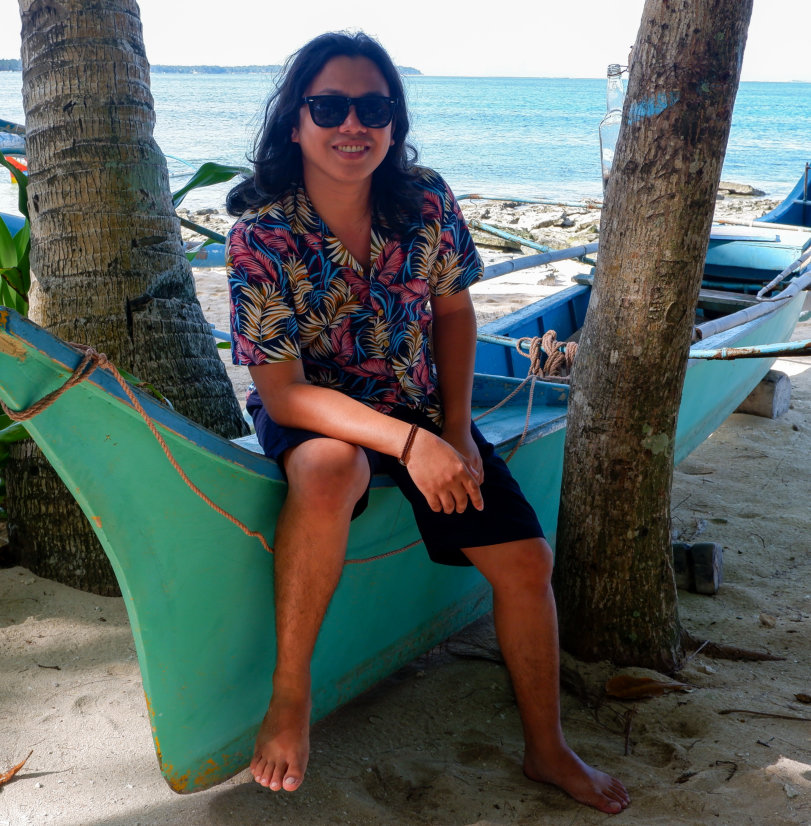
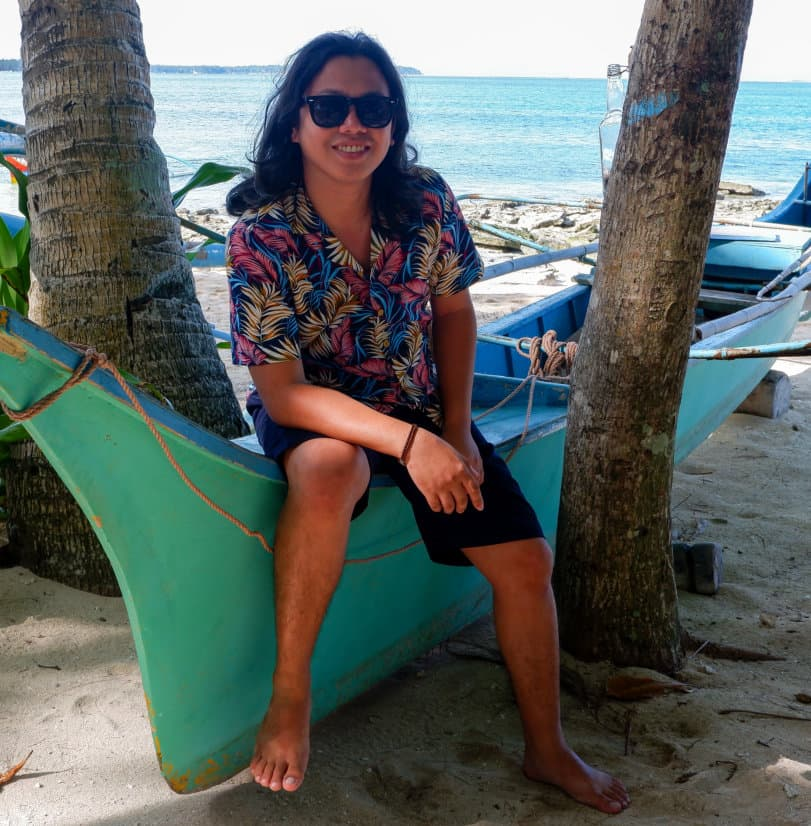
Optimized images

diff --git a/index.html b/index.html
@@ -15,9 +15,9 @@
 	<link rel="stylesheet" href="css/owl.theme.default.min.css">
 	<link rel="stylesheet" href="css/slick.css">
 	<link rel="stylesheet" href="css/slick-theme.css">
-	<link rel="stylesheet" href="style.css">
+	<link rel="stylesheet" href="style.min.css">
 	<link rel="stylesheet" href="css/hamburgers.min.css">
-	<link rel="stylesheet" href="css/media.css">
+	<link rel="stylesheet" href="css/media.min.css">
 	<link rel="stylesheet" href="css/font-awesome.min.css">
 	<link rel="stylesheet" href="css/animate.min.css">
 
@@ -28,7 +28,6 @@
 	<link rel="icon" type="image/png" sizes="32x32" href="images/favicon-32x32.png">
 	<link rel="icon" type="image/png" sizes="16x16" href="images/favicon-16x16.png">
 	<link rel="manifest" href="images/site.webmanifest">
-
 
 </head>
 	<body>
@@ -1199,7 +1198,7 @@
   <!--
   Solved Psuedo Elements IE Issues
   -->
-  <script src="js/plugins.js"></script>
+  <script src="js/plugins.min.js"></script>
 </body>
 </html>
 <!-- End Footer -->
